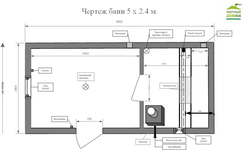
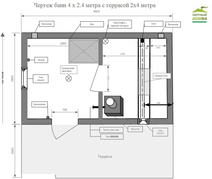
new popup thanks

diff --git a/src/modules/styles/project/widgets/popups/_thanks.scss b/src/modules/styles/project/widgets/popups/_thanks.scss
@@ -1,10 +1,83 @@
 #thanks {
     .popup {
         &__body {
-            padding-top: 17.375rem;
+            padding-top: 2.5625rem;
             padding-bottom: 2.9375rem;
         }
         &__close {
+        }
+    }
+}
+.thanks {
+    &__img {
+        &-banya {
+            width: 20.875rem;
+            position: absolute;
+            top: 12.775rem;
+            left: 0;
+            pointer-events: none;
+        }
+    }
+    &__icons {
+        color: $primary;
+        display: flex;
+        justify-content: space-between;
+        width: 7.75rem;
+        margin: 1.0625rem auto 14.7125rem;
+        svg {
+            width: 2.25rem;
+            &:hover {
+                filter: drop-shadow(0px 0px 4px rgba($primary,0.3));
+            }
+        }
+    }
+    &__block {
+        margin-left: 1.3125rem;
+        margin-bottom: 1.25rem;
+        &-title {
+            font-weight: 600;
+            font-size: 1rem;
+            line-height: 1.25rem;
+            margin-bottom: 0.5rem;
+        }
+        &-adress {
+            padding-left: 1.6rem;
+            font-size: 0.875rem;
+            line-height: 1.3125rem;
+            position: relative;
+            &::before {
+                content: '';
+                display: block;
+                width: 1.1875rem;
+                height: 1.25rem;
+                background-image: url('/assets/images/icons/map-pin.png');
+                background-repeat: no-repeat;
+                background-position: center center;
+                background-size: contain;
+                position: absolute;
+                top: 0;
+                left: 0;
+            }
+        }
+        &-tel {
+            padding-left: 1.6rem;
+            position: relative;
+            &::before {
+                content: '';
+                display: block;
+                width: 1rem;
+                height: 1rem;
+                background-image: url('/assets/images/icons/map-phone.png');
+                background-repeat: no-repeat;
+                background-position: center center;
+                background-size: contain;
+                position: absolute;
+                top: 0.25rem;
+                left: 0;
+            }
+            &:hover {
+                text-decoration: underline;
+            }
         }
     }
 }
@@ -12,10 +85,66 @@
     #thanks {
         .popup {
             &__body {
+                width: 750px;
                 overflow: hidden;
-                padding-bottom: 32px;
+                padding: 36px 37px 45px 36px;
             }
-            &__close {
+            &__logo {
+                left: unset;
+                top: 40px;
+                right: 27px;
+            }
+            &__title {
+                text-align: left;
+                font-size: 24px;
+                margin-bottom: 8px;
+            }
+            &__subtitle {
+                text-align: left;
+                font-size: 16px;
+                padding-bottom: 50px;
+                position: relative;
+                &::after {
+                    content: "";
+                    display: block;
+                    width: 397px;
+                    height: 1px;
+                    background: #E1E1E1;
+                    position: absolute;
+                    left: 0;
+                    bottom: 25px;
+                }
+            }
+        }
+    }
+    .thanks {
+        &__img {
+            &-banya {
+                width: 583px;
+                top: 55px;
+                left: 421px;
+                z-index: -2;
+                filter: brightness(1.05);
+            }
+        }
+        &__icons {
+            margin: 0;
+            position: absolute;
+            bottom: 50px;
+            right: 37px;
+            svg {}
+        }
+        &__block {
+            margin-left: 0;
+            margin-bottom: 11px;
+            &-title {}
+            &-adress {}
+            &-tel {
+                margin-left: 30px;
+            }
+            &-flex {
+                display: flex;
+                align-items: flex-start;
             }
         }
     }

diff --git a/src/assets/styles/_layout.scss b/src/assets/styles/_layout.scss
@@ -774,7 +774,7 @@
             margin-bottom: 1.625rem;
             .s1__item {
                 &-img {
-                    width: 6.45rem;
+                    width: 5.45rem;
                     left: -2rem;
                     top: -0.3125rem;
                 }
@@ -875,9 +875,9 @@
                 margin-bottom: 40px;
                 .s1__item {
                     &-img {
-                        width: 152px;
+                        width: 135px;
                         left: -3rem;
-                        top: -0.4125rem;
+                        top: -1rem;
                     }
                 }
             }
@@ -1585,7 +1585,21 @@
             margin-left: 0px;
         }
         &__item {
+            &--1 {
+                order: 1;
+            }
+            &--2 {
+                order: 3;
+            }
+            &--3 {
+                order: 2;
+            }
+            &--4 {
+                order: 4;
+            }
             &-img {
+                &--1 {
+                }
                 &--2 {
                    
                 }

diff --git a/src/modules/styles/project/widgets/_popup-base.scss b/src/modules/styles/project/widgets/_popup-base.scss
@@ -8,12 +8,6 @@
             top: -2.5rem;
             left: -6.25rem;
         }
-        &-banya {
-            width: 20.875rem;
-            position: absolute;
-            top: 3.75rem;
-            left: 0;
-        }
     }
     &__body {
         border-radius: 0.625rem;
@@ -61,11 +55,6 @@
                 width: 230px;
                 top: -65px;
                 left: -21px;
-            }
-            &-banya {
-                width: unset;
-                top: 21px;
-                left: 9px;
             }
         }
         &__body {

diff --git a/src/modules/scripts/_core.js b/src/modules/scripts/_core.js
@@ -521,6 +521,7 @@ class Form extends App {
         UIkit.modal(`#thanks`).show();
         ym(75096775,'reachGoal','form')
         setTimeout(() =>  ym(75096775,'reachGoal','form_call'), 10)
+        fbq('track', 'Lead')
         fetch(`${this._apiBase}mail.php`, {
             method: 'post',
             body: formData,

diff --git a/src/modules/styles/project/widgets/popups/_bani-item.scss b/src/modules/styles/project/widgets/popups/_bani-item.scss
@@ -80,7 +80,7 @@
         margin-bottom: 1.875rem;
     }
     &__slider {
-        width: 18.75rem;
+        width: 100%;
         margin: 0 auto;
         &-item {
             background: #eee;
